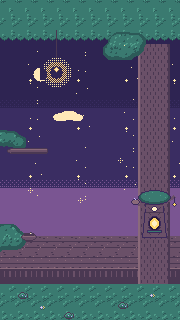
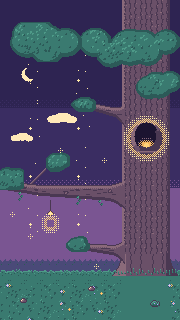
Whimber home v2 (Cole): carved trunk hollow + tapered limb backgrounds, new branch waypoints (branch_tip/hollow_door kept), owl perches at bottom:130px, Hollow Builder overlay hidden on the branch, farewell owl on the limb

diff --git a/scenes.js b/scenes.js
@@ -1,5 +1,5 @@
 // Per-Echo scenes (Cole, echo/scenes/scenes.json v0.2): phone waypoints in bg coords (180x320, feet), handheld 60x80 waypoints.
 // Unlocks (defaults approved): home day 1, 2nd scene bond 70, 3rd bond 290; Our places picker at bond 140; no mid-session change.
-window.SCENES={"slyte":[{"id":"clearing","title":"Treehouse fort clearing","home":false,"wp":[{"id":"stage","kind":"ground","xy":[90,256],"acts":["care","talk","idle"],"face":"front"},{"id":"tree_base","kind":"ground","xy":[146,246],"acts":["curl_nap","sniff"],"face":"left"},{"id":"leaf_pile","kind":"prop","xy":[35,262],"acts":["leaf_pounce"],"face":"right"},{"id":"flower_patch","kind":"ground","xy":[50,290],"acts":["sniff_flowers","sneeze"],"face":"right","requires":"fort_decor>=3"},{"id":"fort_platform","kind":"perch","xy":[152,214],"acts":["fort_flag","fort_peek"],"face":"front","requires":"fort_stage>=1"},{"id":"fort_door","kind":"prop","xy":[152,226],"acts":["go_inside","nap_inside"],"face":"front","requires":"badge:place"},{"id":"moon_rock","kind":"prop","xy":[21,236],"acts":["moon_yip","sunrise_greet"],"face":"up"},{"id":"edge_l","kind":"exit","xy":[-26,270],"acts":["travel"],"face":"front"},{"id":"edge_r","kind":"exit","xy":[206,270],"acts":["travel"],"face":"front"}],"hh":[{"id":"stage","xy":[30,56]},{"id":"leaf_pile","xy":[5,58]},{"id":"tree_base","xy":[6,42]},{"id":"fort_platform","xy":[50,24]},{"id":"edge_l","xy":[-10,52]}]},{"id":"grove","title":"Autumn leaf grove","home":false,"wp":[{"id":"stage","kind":"ground","xy":[90,256],"acts":["care","talk","idle"],"face":"front"},{"id":"log_peek","kind":"prop","xy":[22,252],"acts":["peek_from_log","disguise_hide"],"face":"right"},{"id":"leaf_pile","kind":"prop","xy":[133,272],"acts":["leaf_pounce","leaf_toss"],"face":"left"},{"id":"stump","kind":"prop","xy":[149,232],"acts":["riddle_think","trinket_play"],"face":"left"},{"id":"low_branch","kind":"perch","xy":[42,186],"acts":["jump_up","tail_dangle"],"face":"right","requires":"talent:Super Jumper"},{"id":"lantern","kind":"ground","xy":[166,244],"acts":["warm_paws"],"face":"left","requires":"fort_decor>=1"},{"id":"edge_l","kind":"exit","xy":[-26,266],"acts":["travel"],"face":"front"},{"id":"edge_r","kind":"exit","xy":[206,266],"acts":["travel"],"face":"front"}],"hh":[{"id":"stage","xy":[30,56]},{"id":"log_peek","xy":[6,50]},{"id":"stump","xy":[54,44]},{"id":"edge_l","xy":[-10,52]}]},{"id":"meadow","title":"Sunlit flower meadow","home":false,"wp":[{"id":"stage","kind":"ground","xy":[90,256],"acts":["care","talk","idle"],"face":"front"},{"id":"sun_rock","kind":"prop","xy":[20,246],"acts":["sunbathe","sunrise_greet"],"face":"right"},{"id":"signpost","kind":"ground","xy":[150,240],"acts":["read_sign","flag_wave"],"face":"left","requires":"fort_decor>=2"},{"id":"tall_grass","kind":"prop","xy":[172,270],"acts":["peek_from_grass","disguise_hide"],"face":"left"},{"id":"flowers","kind":"ground","xy":[50,290],"acts":["sniff_flowers","sneeze","butterfly_chase"],"face":"right"},{"id":"edge_l","kind":"exit","xy":[-26,266],"acts":["travel"],"face":"front"},{"id":"edge_r","kind":"exit","xy":[206,266],"acts":["travel"],"face":"front"}],"hh":[{"id":"stage","xy":[30,56]},{"id":"sun_rock","xy":[4,50]},{"id":"signpost","xy":[52,46]},{"id":"edge_r","xy":[70,52]}]}],"whimber":[{"id":"branch","title":"Tree-hollow branch","home":false,"wp":[{"id":"stage","kind":"perch","xy":[90,256],"acts":["care","talk","idle"],"face":"front"},{"id":"branch_tip","kind":"perch","xy":[26,248],"acts":["preen","feather_tidy"],"face":"right"},{"id":"hollow_door","kind":"prop","xy":[154,228],"acts":["go_inside","midday_nap"],"face":"left","requires":"badge:place"},{"id":"side_branch","kind":"perch","xy":[24,148],"acts":["head_tilt","listen"],"face":"right"},{"id":"canopy_top","kind":"perch","xy":[124,62],"acts":["stargaze","good_morning_sun"],"face":"up"},{"id":"lantern","kind":"perch","xy":[56,64],"acts":["lantern_share"],"face":"front","requires":"hollow_decor>=1"},{"id":"sky_l","kind":"exit","xy":[-30,150],"acts":["fly_travel"],"face":"front"},{"id":"sky_r","kind":"exit","xy":[210,140],"acts":["fly_travel"],"face":"front"}],"hh":[{"id":"stage","xy":[30,56]},{"id":"branch_tip","xy":[5,52]},{"id":"hollow_door","xy":[54,28]},{"id":"lantern","xy":[10,20]},{"id":"sky_l","xy":[-10,24]}]},{"id":"library","title":"Moonlit library rafters","home":false,"wp":[{"id":"stage","kind":"perch","xy":[90,256],"acts":["care","talk","idle"],"face":"front"},{"id":"reading_nook","kind":"perch","xy":[32,252],"acts":["read_book","story_hum"],"face":"right"},{"id":"book_stack","kind":"prop","xy":[146,224],"acts":["stack_peek","page_turn"],"face":"left"},{"id":"window_sill","kind":"perch","xy":[92,98],"acts":["moon_watch","good_morning_sun"],"face":"up"},{"id":"upper_rafter","kind":"perch","xy":[150,132],"acts":["head_tilt","listen","lullaby_hum"],"face":"left"},{"id":"lantern","kind":"perch","xy":[34,120],"acts":["lantern_share"],"face":"front","requires":"hollow_decor>=1"},{"id":"door_l","kind":"exit","xy":[-30,200],"acts":["fly_travel"],"face":"front"}],"hh":[{"id":"stage","xy":[30,56]},{"id":"reading_nook","xy":[6,56]},{"id":"book_stack","xy":[54,32]},{"id":"window_sill","xy":[30,24]},{"id":"door_l","xy":[-10,40]}]},{"id":"hilltop","title":"Starry hilltop","home":false,"wp":[{"id":"stage","kind":"ground","xy":[90,256],"acts":["care","talk","idle"],"face":"front"},{"id":"tree_branch","kind":"perch","xy":[40,196],"acts":["preen","head_tilt","listen"],"face":"right"},{"id":"bench","kind":"prop","xy":[132,244],"acts":["sit_and_sway","lullaby_hum"],"face":"left","requires":"hollow_decor>=3"},{"id":"blanket","kind":"ground","xy":[66,280],"acts":["stargaze_lie_back","cloud_shapes"],"face":"up"},{"id":"sky_loop","kind":"air","xy":[90,130],"acts":["silent_flight_loop"],"face":"front","requires":"talent:Silent Flight"},{"id":"sky_l","kind":"exit","xy":[-30,150],"acts":["fly_travel"],"face":"front"},{"id":"sky_r","kind":"exit","xy":[210,150],"acts":["fly_travel"],"face":"front"}],"hh":[{"id":"stage","xy":[30,56]},{"id":"tree_branch","xy":[4,24]},{"id":"bench","xy":[54,48]},{"id":"sky_loop","xy":[30,18]},{"id":"sky_r","xy":[70,24]}]}]};
+window.SCENES={"slyte":[{"id":"clearing","title":"Treehouse fort clearing","home":false,"wp":[{"id":"stage","kind":"ground","xy":[90,256],"acts":["care","talk","idle"],"face":"front"},{"id":"tree_base","kind":"ground","xy":[146,246],"acts":["curl_nap","sniff"],"face":"left"},{"id":"leaf_pile","kind":"prop","xy":[35,262],"acts":["leaf_pounce"],"face":"right"},{"id":"flower_patch","kind":"ground","xy":[50,290],"acts":["sniff_flowers","sneeze"],"face":"right","requires":"fort_decor>=3"},{"id":"fort_platform","kind":"perch","xy":[152,214],"acts":["fort_flag","fort_peek"],"face":"front","requires":"fort_stage>=1"},{"id":"fort_door","kind":"prop","xy":[152,226],"acts":["go_inside","nap_inside"],"face":"front","requires":"badge:place"},{"id":"moon_rock","kind":"prop","xy":[21,236],"acts":["moon_yip","sunrise_greet"],"face":"up"},{"id":"edge_l","kind":"exit","xy":[-26,270],"acts":["travel"],"face":"front"},{"id":"edge_r","kind":"exit","xy":[206,270],"acts":["travel"],"face":"front"}],"hh":[{"id":"stage","xy":[30,56]},{"id":"leaf_pile","xy":[5,58]},{"id":"tree_base","xy":[6,42]},{"id":"fort_platform","xy":[50,24]},{"id":"edge_l","xy":[-10,52]}]},{"id":"grove","title":"Autumn leaf grove","home":false,"wp":[{"id":"stage","kind":"ground","xy":[90,256],"acts":["care","talk","idle"],"face":"front"},{"id":"log_peek","kind":"prop","xy":[22,252],"acts":["peek_from_log","disguise_hide"],"face":"right"},{"id":"leaf_pile","kind":"prop","xy":[133,272],"acts":["leaf_pounce","leaf_toss"],"face":"left"},{"id":"stump","kind":"prop","xy":[149,232],"acts":["riddle_think","trinket_play"],"face":"left"},{"id":"low_branch","kind":"perch","xy":[42,186],"acts":["jump_up","tail_dangle"],"face":"right","requires":"talent:Super Jumper"},{"id":"lantern","kind":"ground","xy":[166,244],"acts":["warm_paws"],"face":"left","requires":"fort_decor>=1"},{"id":"edge_l","kind":"exit","xy":[-26,266],"acts":["travel"],"face":"front"},{"id":"edge_r","kind":"exit","xy":[206,266],"acts":["travel"],"face":"front"}],"hh":[{"id":"stage","xy":[30,56]},{"id":"log_peek","xy":[6,50]},{"id":"stump","xy":[54,44]},{"id":"edge_l","xy":[-10,52]}]},{"id":"meadow","title":"Sunlit flower meadow","home":false,"wp":[{"id":"stage","kind":"ground","xy":[90,256],"acts":["care","talk","idle"],"face":"front"},{"id":"sun_rock","kind":"prop","xy":[20,246],"acts":["sunbathe","sunrise_greet"],"face":"right"},{"id":"signpost","kind":"ground","xy":[150,240],"acts":["read_sign","flag_wave"],"face":"left","requires":"fort_decor>=2"},{"id":"tall_grass","kind":"prop","xy":[172,270],"acts":["peek_from_grass","disguise_hide"],"face":"left"},{"id":"flowers","kind":"ground","xy":[50,290],"acts":["sniff_flowers","sneeze","butterfly_chase"],"face":"right"},{"id":"edge_l","kind":"exit","xy":[-26,266],"acts":["travel"],"face":"front"},{"id":"edge_r","kind":"exit","xy":[206,266],"acts":["travel"],"face":"front"}],"hh":[{"id":"stage","xy":[30,56]},{"id":"sun_rock","xy":[4,50]},{"id":"signpost","xy":[52,46]},{"id":"edge_r","xy":[70,52]}]}],"whimber":[{"id":"branch","title":"Tree-hollow branch","home":false,"wp":[{"id":"stage","kind":"perch","xy":[90,190],"acts":["care","talk","idle"],"face":"front"},{"id":"branch_tip","kind":"perch","xy":[24,187],"acts":["preen","feather_tidy"],"face":"right"},{"id":"lantern","kind":"perch","xy":[54,190],"acts":["lantern_share"],"face":"front","requires":"hollow_decor>=1"},{"id":"hollow_door","kind":"prop","xy":[146,155],"acts":["go_inside","midday_nap"],"face":"left","requires":"badge:place"},{"id":"low_branch","kind":"perch","xy":[100,250],"acts":["head_tilt","listen"],"face":"right"},{"id":"canopy_top","kind":"perch","xy":[100,111],"acts":["stargaze","good_morning_sun"],"face":"up"},{"id":"grass_l","kind":"ground","xy":[44,304],"acts":["sniff_flowers","butterfly_chase"],"face":"right"},{"id":"grass_r","kind":"ground","xy":[104,310],"acts":["peek_from_grass","jump_up"],"face":"left"},{"id":"sky_l","kind":"exit","xy":[-30,150],"acts":["fly_travel"],"face":"front"},{"id":"sky_r","kind":"exit","xy":[210,96],"acts":["fly_travel"],"face":"front"}],"hh":[{"id":"stage","xy":[30,56]},{"id":"branch_tip","xy":[5,52]},{"id":"hollow_door","xy":[54,28]},{"id":"lantern","xy":[10,20]},{"id":"sky_l","xy":[-10,24]}]},{"id":"library","title":"Moonlit library rafters","home":false,"wp":[{"id":"stage","kind":"perch","xy":[90,256],"acts":["care","talk","idle"],"face":"front"},{"id":"reading_nook","kind":"perch","xy":[32,252],"acts":["read_book","story_hum"],"face":"right"},{"id":"book_stack","kind":"prop","xy":[146,224],"acts":["stack_peek","page_turn"],"face":"left"},{"id":"window_sill","kind":"perch","xy":[92,98],"acts":["moon_watch","good_morning_sun"],"face":"up"},{"id":"upper_rafter","kind":"perch","xy":[150,132],"acts":["head_tilt","listen","lullaby_hum"],"face":"left"},{"id":"lantern","kind":"perch","xy":[34,120],"acts":["lantern_share"],"face":"front","requires":"hollow_decor>=1"},{"id":"door_l","kind":"exit","xy":[-30,200],"acts":["fly_travel"],"face":"front"}],"hh":[{"id":"stage","xy":[30,56]},{"id":"reading_nook","xy":[6,56]},{"id":"book_stack","xy":[54,32]},{"id":"window_sill","xy":[30,24]},{"id":"door_l","xy":[-10,40]}]},{"id":"hilltop","title":"Starry hilltop","home":false,"wp":[{"id":"stage","kind":"ground","xy":[90,256],"acts":["care","talk","idle"],"face":"front"},{"id":"tree_branch","kind":"perch","xy":[40,196],"acts":["preen","head_tilt","listen"],"face":"right"},{"id":"bench","kind":"prop","xy":[132,244],"acts":["sit_and_sway","lullaby_hum"],"face":"left","requires":"hollow_decor>=3"},{"id":"blanket","kind":"ground","xy":[66,280],"acts":["stargaze_lie_back","cloud_shapes"],"face":"up"},{"id":"sky_loop","kind":"air","xy":[90,130],"acts":["silent_flight_loop"],"face":"front","requires":"talent:Silent Flight"},{"id":"sky_l","kind":"exit","xy":[-30,150],"acts":["fly_travel"],"face":"front"},{"id":"sky_r","kind":"exit","xy":[210,150],"acts":["fly_travel"],"face":"front"}],"hh":[{"id":"stage","xy":[30,56]},{"id":"tree_branch","xy":[4,24]},{"id":"bench","xy":[54,48]},{"id":"sky_loop","xy":[30,18]},{"id":"sky_r","xy":[70,24]}]}]};
 SCENES.unlock=[0,70,290];SCENES.weights={slyte:{clearing:[2,2,2,1],grove:[1,2,3,0],meadow:[3,2,1,0]},whimber:{branch:[2,3,1,2],library:[2,2,2,1],hilltop:[1,1,3,2]}};
 SCENES.release={slyte:"meadow",whimber:"branch_twi"};   // recorded only: the release flow is not changed in this round

diff --git a/game.js b/game.js
@@ -128,8 +128,8 @@ function home(greet){
   ov.innerHTML='';
   const e=E(), m=mood(), w=want(), ready=fwShowPath();
   h(`<div class="top"><button class="badge" id="bond" style="border:0;color:#fff"></button><b>${S.g.name}</b><div class="row">${ready?`<button class="btn small ico" id="fwl" aria-label="Farewell list">${PI('📜')}</button>`:''}<button class="btn small ico" id="book" aria-label="Memory Book">${PI('📖')}</button><button class="btn small ico" id="how" aria-label="How am I?">${PI('🤔')}</button></div></div>
-   <div class="scene ${e.bg} pxscene" id="sc" style="${scStyle()}">${fwHomeBits()}
-   ${curScene()===scHome()?fortProp():''}<div class="creature idle" id="cr">${svg(S.kind,S.g,m)}</div>${w&&m!=='sleep'?`<div class="thought">${window.PIXEL?PIXEL.icon({'🍎':'feed','⚽':'play','🛏':'sleep','💗':'pet'}[w]||'talk'):w}</div>`:''}
+   <div class="scene ${e.bg} pxscene sc-${curScene().id}" id="sc" style="${scStyle()}">${fwHomeBits()}
+   ${curScene()===scHome()&&curScene().id!=='branch'?fortProp():''}   <div class="creature idle" id="cr">${svg(S.kind,S.g,m)}</div>${w&&m!=='sleep'?`<div class="thought">${window.PIXEL?PIXEL.icon({'🍎':'feed','⚽':'play','🛏':'sleep','💗':'pet'}[w]||'talk'):w}</div>`:''}
    <div class="bubble" id="b" style="display:none"></div>
    ${ready?`<button class="btn rel" id="rel">${PI('🌲')}<span class="lbl">${fwUI('ui_path_button',S.kind==='fox'?0:1)}</span></button>`:''}</div>
    <div class="dock"><button class="btn" id="feed">${window.PIXEL?PIXEL.icon('feed'):'🍎'}Feed</button><button class="btn" id="play">${window.PIXEL?PIXEL.icon('play'):'🎲'}Play</button><button class="btn" id="comfort">${window.PIXEL?PIXEL.icon('pet'):'💗'}Hug</button><button class="btn" id="rest">${window.PIXEL?PIXEL.icon('sleep'):'🛏'}Rest</button></div>
@@ -752,20 +752,20 @@ async function fwCeremony0(path,resume){
   try{lvStop();clearTimeout(LIVE.noticeT);clearInterval(LIVE.timer)}catch(x){}clearTimeout(ambT);if(window.Music)Music.home(S.kind);
   ov.innerHTML='';document.querySelectorAll('.full').forEach(x=>x.remove());
   h(`<div class="scene fwscene ${fox?'fox':'owl'}" id="sc"><div class="fwsky"></div>${fwStarHTML(fox?2:2,'fwstar')}<div class="fwtrail" id="fwtrail"></div>
-    <div class="creature" id="cr" style="left:90px;bottom:64px">${svg(S.kind,S.g,'happy')}</div>${fox?'<div class="fwgrass"></div>':''}<div class="fwglow" id="fwglow"></div><div class="bubble" id="b" style="display:none"></div></div>`);
+    <div class="creature" id="cr" style="left:90px;bottom:${fox?64:130}px">${svg(S.kind,S.g,'happy')}</div>${fox?'<div class="fwgrass"></div>':''}<div class="fwglow" id="fwglow"></div><div class="bubble" id="b" style="display:none"></div></div>`);
   const px=$('#cr .px-echo');if(px)px.dataset.stage=4;   // bonded until the departure; stage 5 plays as the release event
   const star=l=>{const s=$('#fwstar');if(s){s.className='fwstar l'+l;s.style.backgroundImage=`url(px/fw/star_${l}.png)`}};
   const mems=Postcards.memories(S.memories).slice(-3);
   if(fox)fwBg(resume?'meadow':scHome().id,resume?'twi':'day');else fwBg('branch','twi');   // Whimber: the branch's warm twilight, whatever the clock says
-  if(resume&&f.step>=1){if(!fox)await fwMoveTo(58,64,400);await fwSay(B('resume_edge'))}
+  if(resume&&f.step>=1){if(!fox)await fwMoveTo(58,130,400);await fwSay(B('resume_edge'))}
   else{
     // C0 start
     await fwSay(B('walk_start'));fwStep(1);
     // C1 walk (Slyte: three cuts home -> meadow -> edge, trotting) / along the branch (Whimber: each memory lights a star)
     if(fox){const c=$('#cr');c.classList.add('pxwalk');await fwSay(fwPickDone('walk_list'));const sc=$('#sc');sc.classList.add('fwcut');fwBg('meadow','day');await fwWait(350);sc.classList.remove('fwcut');
       for(const m of mems.slice(0,2))await fwSay(B('walk_memory',{memory:m}));sc.classList.add('fwcut');fwBg('meadow','twi');await fwWait(350);sc.classList.remove('fwcut');c.classList.remove('pxwalk')}
-    else{await fwMoveTo(74,64,700);await fwSay(fwPickDone('walk_list'));let k=0;
-      for(const m of mems){k++;$('#fwtrail').innerHTML=fwTrailHTML(k*2);await fwSay(B('walk_memory',{memory:m}))}await fwMoveTo(58,64,600)}
+    else{await fwMoveTo(74,130,700);await fwSay(fwPickDone('walk_list'));let k=0;
+      for(const m of mems){k++;$('#fwtrail').innerHTML=fwTrailHTML(k*2);await fwSay(B('walk_memory',{memory:m}))}await fwMoveTo(58,130,600)}
     fwStep(2);
     // C2 arrive
     star(3);await fwSay(B('edge_arrive'));fwStep(3)}

diff --git a/pixel.css b/pixel.css
@@ -283,3 +283,4 @@ canvas.bondup{position:absolute;left:0;top:0;width:180px;height:320px;z-index:60
 .top #rm.gold{color:#C9781E}.top b .pxi{width:8px;height:8px;background-size:8px 8px;vertical-align:-1px}
 .rungame .fbdone{position:absolute;left:30px;top:90px;width:112px;padding:5px 4px;background:#FFF6E6;color:#3B2A5C;border:1px solid #3B2A5C;box-shadow:inset 1px 1px 0 #fff,inset -1px -1px 0 #EBD7BC,0 2px 0 #1f1838;display:flex;flex-wrap:wrap;align-items:center;justify-content:center;gap:3px;text-align:center;z-index:4}
 .rungame .fbdone .rb{width:100%;color:#C9781E}
+.pxscene.sc-branch .creature{bottom:130px}   /* Whimber home v2: the default perch is on the limb (y 190), not the grass */
